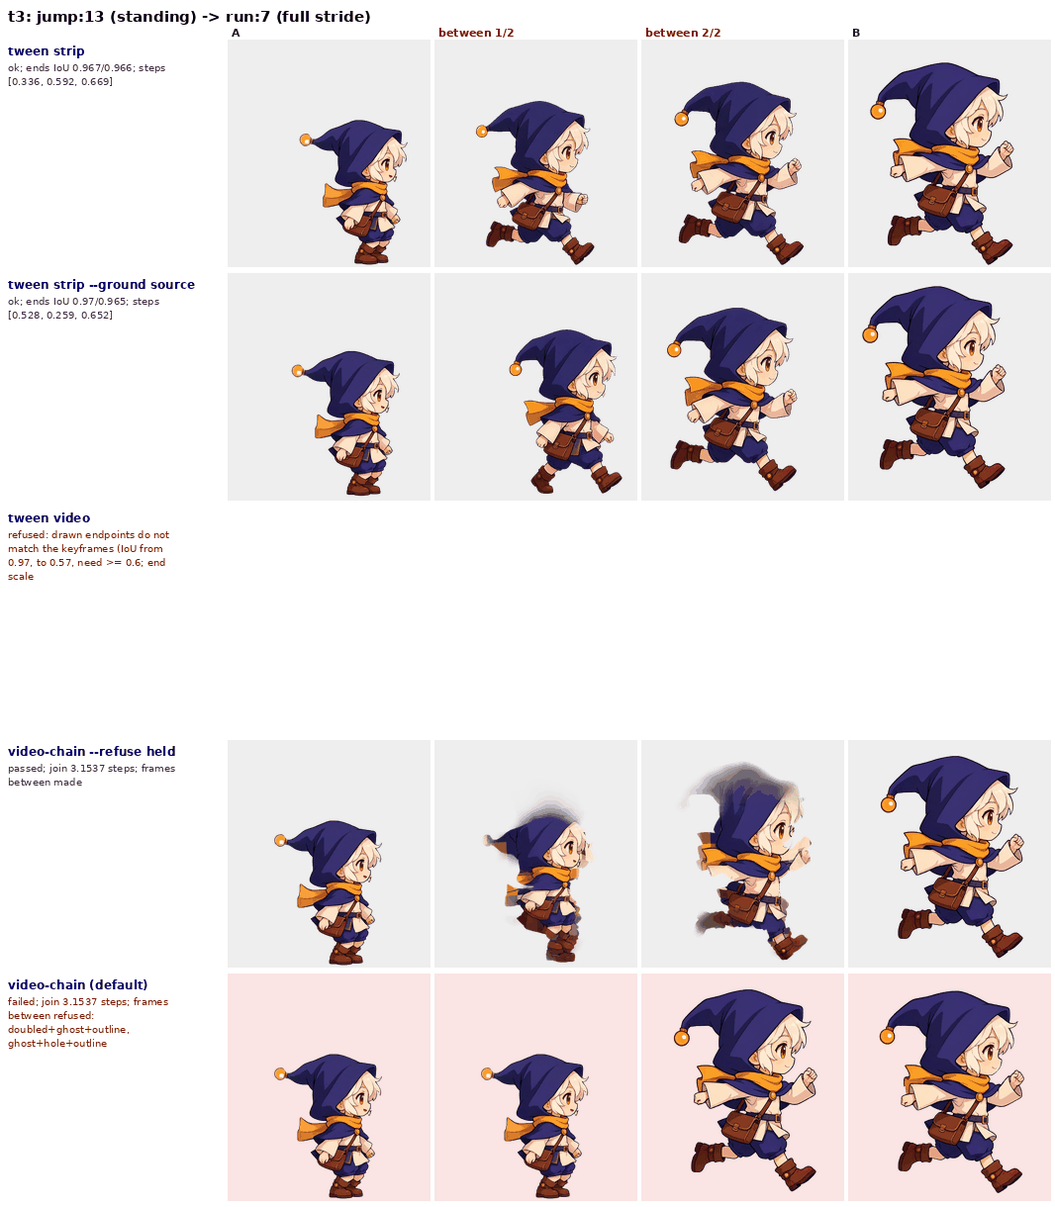
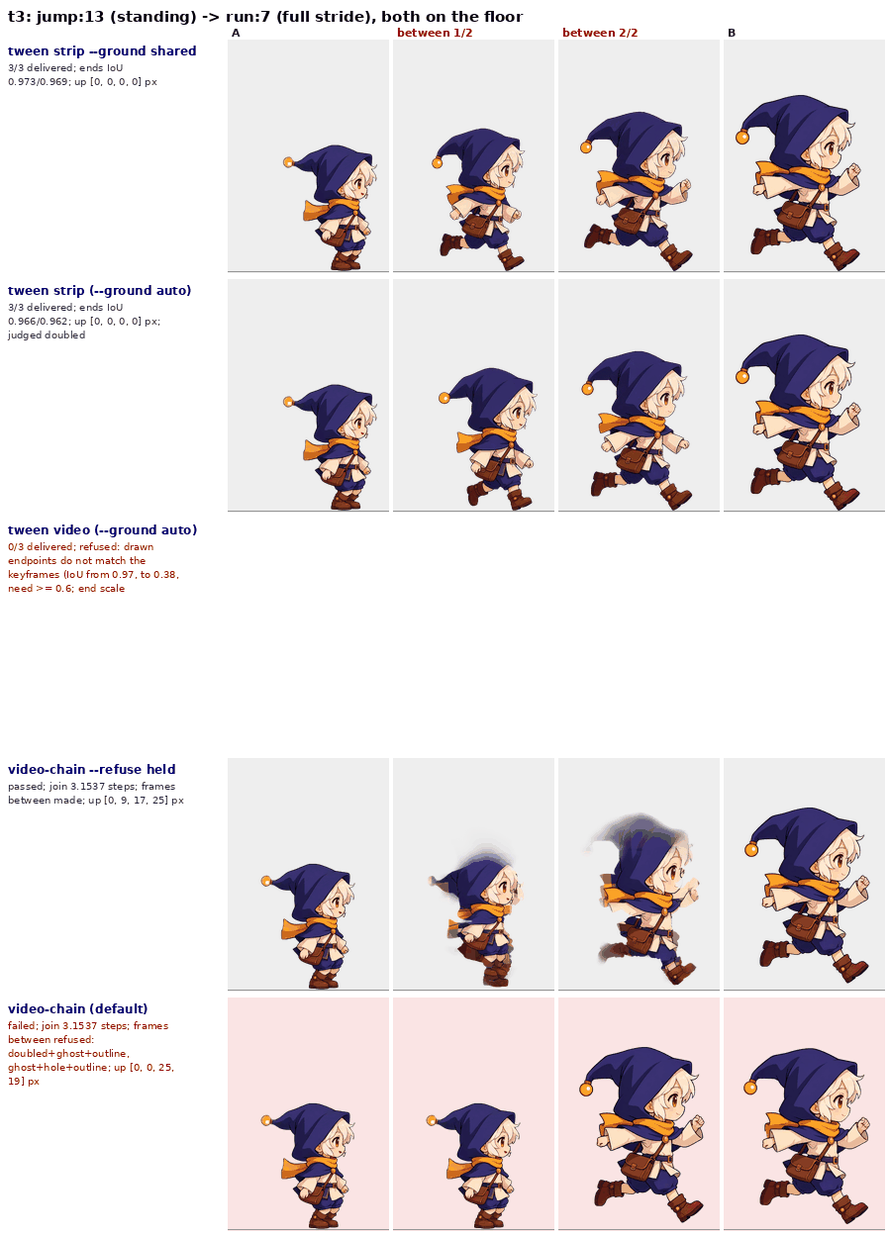
dev: tween_chain_demo on four joins (a landing beside the clip's own frames), three tries a tween row, heights off the floor, --resume; the GIFs and sheets again

diff --git a/scripts/dev/tween_chain_demo.py b/scripts/dev/tween_chain_demo.py
@@ -1,35 +1,40 @@
 # SPDX-License-Identifier: Apache-2.0
-"""`tween` beside `video-chain` on three joins between two Pip clips (docs/tween.md "tween and video-chain").
+"""`tween` beside `video-chain` on four joins between frames of two Pip clips (docs/tween.md "tween and video-chain").
 
-The frames are the repository's own: `tests/fixtures/rife-cuts/pip-jump` (29 keyed frames) and `pip-run` (26), put on
-one canvas (bottom-aligned, centred, the larger of the two sizes and a margin), as `video-chain` takes pieces. Each
-join is a last frame of one clip into a first frame of the other, at three pose distances:
+The frames are the repository's own: `tests/fixtures/rife-cuts/pip-jump` (29 keyed frames: rising 0-4 to an apex 208 px
+off the floor, falling 5-9, landed 10-25, taking off 26-28) and `pip-run` (26), put on one canvas (bottom-aligned,
+centred, the larger of the two sizes and a margin), as `video-chain` takes pieces. Each join is a frame of one clip
+into a frame of the other (or of the same clip, `t4`), at three pose distances and two kinds of height:
 
-- `t1` jump:28 -> run:0, a take-off 130 px off the floor into a stride (the nearest, 2.2 steps on `video-chain`'s
-  join reading);
-- `t3` jump:13 -> run:7, standing into a full stride (3.2 steps);
-- `t2` run:25 -> jump:0, a stride into a fall 164 px off the floor (the farthest, 4.6 steps).
+- `t1` jump:28 -> run:0, a take-off 130 px off the floor into a stride on it (2.2 steps on `video-chain`'s join reading);
+- `t2` run:25 -> jump:0, a stride on the floor into a rise 164 px off it (4.6 steps);
+- `t3` jump:13 -> run:7, standing into a full stride, both on the floor (3.2 steps): the control, no height to keep;
+- `t4` jump:6 -> jump:12, falling 182 px off the floor into the landed crouch. The clip's own frames 8 and 10 are a
+  third and two thirds of the way, so they are the frames to compare against (the `truth` row and `truth` numbers).
 
 For each, two frames between, five ways, every one through the CLI in a subprocess as a user runs it:
 
 | row | command |
 |---|---|
-| `strip` | `tween --method strip` (`--ground shared`, the default) |
-| `strip-source` | `tween --method strip --ground source` |
-| `video` | `tween --method video` (every fault of the judge refuses, the default) |
+| `strip-shared` | `tween --method strip --ground shared` (every foot on one ground row) |
+| `strip` | `tween --method strip` (`--ground auto`, the default: the height put back where one end is off the floor) |
+| `video` | `tween --method video` (`--ground auto`; every fault of the judge refuses, the default) |
 | `chain-held` | `video-chain --piece A=..:F-3:F --piece B=..:T:T+3 --bridge 2 --refuse held` |
 | `chain` | the same with every fault refusing (the default) |
 
-The tween rows call the provider (`--provider`, grok by default: one image or one clip each, billed per call where
-the login does not cover it); `--no-provider` runs the chain rows only, and `--render-only` draws the pages again from
-an earlier `--out-dir`. RIFE must be installed for the chain rows (`sprite-gen rife install`).
+The tween rows call the provider (`--provider`, grok by default: one image or one clip a try, billed per call where the
+login does not cover it) `--tries` times each (default 3), since the provider draws anew on every call: the summary
+counts the tries delivered and the pages show the first delivered (or the first refused). The chain rows run once
+(RIFE gives the same frames every run). `--no-provider` runs the chain rows only, and `--render-only` draws the pages
+again from an earlier `--out-dir`. RIFE must be installed for the chain rows (`sprite-gen rife install`).
 
-    .venv/bin/python scripts/dev/tween_chain_demo.py --out-dir <a new directory> [--jobs 3]
+    .venv/bin/python scripts/dev/tween_chain_demo.py --out-dir <a new directory> [--tries 3] [--jobs 5]
 
-Writes `<out-dir>/runs/<join>/<row>/` (each verb's own folder and report), `<out-dir>/summary.json` (each row's exit
-code, seconds and the numbers its report gives), and `<out-dir>/showcase/`: `tween-vs-chain-<join>.gif` (four rows
-playing A, the two frames between, B) and `tween-vs-chain-<join>.png` (all five rows' frames on one sheet), each under
-1 MB. The provider draws anew on every run, so the tween rows' numbers are one run's, not a fixed result.
+Writes `<out-dir>/runs/<join>/<row>/[try-<k>/]` (each verb's own folder and report), `<out-dir>/summary.json` (each
+try's exit code, seconds and the numbers its report gives, each row's frames' height off the floor, `rise_px`, and on
+`t4` each frame's silhouette IoU with the clip's own frame and its height error), and `<out-dir>/showcase/`:
+`tween-vs-chain-<join>.gif` (four rows playing A, the two frames between, B, `t4` with the clip's own frames beside
+them; a grey line on the lower end's floor) and `tween-vs-chain-<join>.png` (every row on one sheet), each under 1 MB.
 """
 from __future__ import annotations
 
@@ -47,13 +52,17 @@ ROOT = Path(__file__).resolve().parents[2]
 FIXTURES = ROOT / "tests" / "fixtures" / "rife-cuts"
 CLIPS = ("pip-jump", "pip-run")
 JOINS = {  # name: (from clip, from frame, to clip, to frame, what it is)
-    "t1": ("pip-jump", 28, "pip-run", 0, "jump:28 (take-off, 130 px up) -> run:0"),
-    "t3": ("pip-jump", 13, "pip-run", 7, "jump:13 (standing) -> run:7 (full stride)"),
-    "t2": ("pip-run", 25, "pip-jump", 0, "run:25 (stride) -> jump:0 (falling, 164 px up)"),
+    "t1": ("pip-jump", 28, "pip-run", 0, "jump:28 (take-off, 130 px up) -> run:0 (on the floor)"),
+    "t2": ("pip-run", 25, "pip-jump", 0, "run:25 (on the floor) -> jump:0 (rising, 164 px up)"),
+    "t3": ("pip-jump", 13, "pip-run", 7, "jump:13 (standing) -> run:7 (full stride), both on the floor"),
+    "t4": ("pip-jump", 6, "pip-jump", 12, "jump:6 (falling, 182 px up) -> jump:12 (landed); the clip's 8 and 10 between"),
 }
-ROWS = ("strip", "strip-source", "video", "chain-held", "chain")
-TITLES = {"strip": "tween strip", "strip-source": "tween strip --ground source", "video": "tween video",
-          "chain-held": "video-chain --refuse held", "chain": "video-chain (default)"}
+TRUTH = {"t4": ("pip-jump", (6, 8, 10, 12))}  # the clip's own frames at A, 1/3, 2/3, B
+ROWS = ("strip-shared", "strip", "video", "chain-held", "chain")
+TWEEN_ROWS = ("strip-shared", "strip", "video")
+TITLES = {"strip-shared": "tween strip --ground shared", "strip": "tween strip (--ground auto)",
+          "video": "tween video (--ground auto)", "chain-held": "video-chain --refuse held",
+          "chain": "video-chain (default)", "truth": "the clip's own frames"}
 DESCRIPTION = ("chibi wizard kid Pip: big indigo pointed hood with a yellow bell tip, orange scarf, cream tunic, "
                "brown satchel and boots, side view facing right")
 MARGIN = (12, 13)  # px added to the larger clip's width and height: the canvas of the comparison
@@ -88,11 +97,25 @@ def command(row: str, join: str, states: dict[str, Path], run: Path, provider: s
             "--to-file", str(states[b] / f"frame-{fb + 1:04d}.png"), "--n", str(n), "--provider", provider,
             "--description", DESCRIPTION, "--out-dir", str(run), "--fps", str(FPS), "--include-ends", "--force",
             "--method", "video" if row == "video" else "strip"]
-    return args + (["--ground", "source"] if row == "strip-source" else [])
+    return args + (["--ground", "shared"] if row == "strip-shared" else [])
 
 
-def execute(row: str, join: str, states: dict[str, Path], runs: Path, provider: str, n: int) -> dict:
-    run = runs / join / row
+def run_dirs(row: str, join: str, runs: Path, tries: int) -> list[Path]:
+    """Where a row's runs go: one folder for a chain row, `try-<k>` for each try of a tween row."""
+    base = runs / join / row
+    return [base] if row.startswith("chain") else [base / f"try-{k}" for k in range(1, tries + 1)]
+
+
+def stands(row: str, run: Path) -> bool:
+    """An earlier run that made something: a report whose status is not error."""
+    report = run / ("chain.report.json" if row.startswith("chain") else "tween.json")
+    try:
+        return json.loads(report.read_text(encoding="utf-8")).get("status") != "error"
+    except (OSError, ValueError):
+        return False
+
+
+def execute(row: str, join: str, run: Path, states: dict[str, Path], provider: str, n: int) -> dict:
     run.mkdir(parents=True, exist_ok=True)
     began = time.monotonic()
     proc = subprocess.run([sys.executable, "-m", "sprite_gen.cli", *command(row, join, states, run, provider, n)],
@@ -101,8 +124,8 @@ def execute(row: str, join: str, states: dict[str, Path], runs: Path, provider: 
     return {"exit": proc.returncode, "seconds": round(time.monotonic() - began, 1)}
 
 
-def read_row(row: str, run: Path) -> dict:
-    """The numbers a row's report gives, for the summary and the pages."""
+def read_run(row: str, run: Path) -> dict:
+    """The numbers a run's report gives, for the summary and the pages."""
     if row.startswith("chain"):
         rep = json.loads((run / "chain.report.json").read_text(encoding="utf-8"))
         bridges = rep.get("chain", {}).get("bridges", [])
@@ -116,15 +139,19 @@ def read_row(row: str, run: Path) -> dict:
     return {"status": rep["status"], "endpoint_iou": [em.get("iou_from"), em.get("iou_to")],
             "scale_agree": em.get("scale_agree"), "frame_scale": rep.get("frame_scale", {}).get("drawn_vs_endpoints"),
             "step_iou": rep.get("step_iou"), "drawn_step_iou": rep.get("drawn_step_iou"),
-            "lift_px": rep.get("lift_px"), "refuse": rep.get("refuse"),
+            "ground": rep.get("ground"), "lift_px": rep.get("lift_px"), "refuse": rep.get("refuse"),
             "judge_faults": [r["faults"] for r in rep.get("judge", [])],
             "kept_faults": [r.get("kept_faults", []) for r in rep.get("judge", [])],
             "shown_again": (rep.get("read") or {}).get("unlisted"), "warnings": len(rep.get("warnings", [])),
             "error": rep.get("error")}
 
 
+def delivered(row: str, numbers: dict) -> bool:
+    return numbers.get("status") in ("ok", "passed")
+
+
 def frames_of(row: str, run: Path) -> tuple[list[Image.Image] | None, bool]:
-    """A, the two frames between, B as the row delivered them, or as it left them refused; None where none were made."""
+    """A, the two frames between, B as the run delivered them, or as it left them refused; None where none were made."""
     if row.startswith("chain"):
         keyed = run / "keyed"
         folder, refused = (keyed, False) if keyed.is_dir() else (run / "keyed.refused", True)
@@ -137,6 +164,55 @@ def frames_of(row: str, run: Path) -> tuple[list[Image.Image] | None, bool]:
     return [Image.open(f).convert("RGBA") for f in files], refused
 
 
+def truth_frames(join: str, states: dict[str, Path]) -> list[Image.Image] | None:
+    if join not in TRUTH:
+        return None
+    clip, picks = TRUTH[join]
+    return [Image.open(states[clip] / f"frame-{k + 1:04d}.png").convert("RGBA") for k in picks]
+
+
+def rise_px(frames: list[Image.Image]) -> list[int]:
+    """Each frame's lowest opaque row above the lower end's, in px of its own canvas (one canvas a row)."""
+    bottoms = [f.getchannel("A").getbbox()[3] for f in frames]
+    floor = max(bottoms[0], bottoms[-1])
+    return [floor - b for b in bottoms]
+
+
+def against_truth(frames: list[Image.Image], truth: list[Image.Image]) -> dict:
+    """The frames between beside the clip's own: silhouette IoU at the clip frame's height, foot on foot, and the
+    height error. A frame drawn at another scale than the clip's is compared at the clip's scale."""
+    from sprite_gen.effects.tween import _scaled, _tight, silhouette_iou
+    iou = []
+    for got, want in zip(frames[1:-1], truth[1:-1]):
+        g, w = _tight(got), _tight(want)
+        iou.append(round(silhouette_iou(_scaled(g, w.height), w, "foot"), 3))
+    got, want = rise_px(frames), rise_px(truth)
+    return {"iou": iou, "rise_px": want, "rise_error_px": [g - w for g, w in zip(got[1:-1], want[1:-1])]}
+
+
+def summarise(join: str, runs: Path, states: dict[str, Path], tries: int, timing: dict) -> dict:
+    out: dict = {}
+    truth = truth_frames(join, states)
+    if truth:
+        out["truth"] = {"rise_px": rise_px(truth)}
+    for row in ROWS:
+        dirs = [d for d in run_dirs(row, join, runs, tries) if (d / "log.txt").is_file()]
+        if not dirs:
+            continue
+        rows = []
+        for d in dirs:
+            numbers = {**timing.get(join, {}).get(str(d.relative_to(runs)), {}), **read_run(row, d)}
+            frames, _ = frames_of(row, d)
+            if frames:
+                numbers["rise_px"] = rise_px(frames)
+                if truth:
+                    numbers["truth"] = against_truth(frames, truth)
+            rows.append(numbers)
+        ok = [k for k, r in enumerate(rows) if delivered(row, r)]
+        out[row] = {"delivered": len(ok), "of": len(rows), "shown": ok[0] if ok else 0, "tries": rows}
+    return out
+
+
 def _font(size: int, bold: bool = False) -> ImageFont.ImageFont:
     name = "DejaVuSans-Bold.ttf" if bold else "DejaVuSans.ttf"
     try:
@@ -145,65 +221,86 @@ def _font(size: int, bold: bool = False) -> ImageFont.ImageFont:
         return ImageFont.load_default()
 
 
-def note(row: str, numbers: dict) -> str:
+def note(row: str, entry: dict) -> str:
+    if row == "truth":
+        return f"heights off the floor {entry['rise_px']} px"
+    numbers = entry["tries"][entry["shown"]]
+    count = f"{entry['delivered']}/{entry['of']} delivered; " if entry["of"] > 1 else ""
+    rise = f"; up {numbers['rise_px']} px" if numbers.get("rise_px") else ""
     if row.startswith("chain"):
         made = "made" if all(numbers["bridge_made"]) else "refused: " + ", ".join(
             "+".join(f) for f in numbers["bridge_faults"] if f)
-        return f"{numbers['status']}; join {numbers['join_steps']} steps; frames between {made}"
-    if numbers["status"] != "ok":
-        return "refused: " + (numbers["error"] or "").split("refused — ")[-1][:90]
+        return f"{numbers['status']}; join {numbers['join_steps']} steps; frames between {made}{rise}"
+    if not delivered(row, numbers):
+        return count + "refused: " + (numbers["error"] or "").split("refused — ")[-1][:90]
     kept = sorted({f for k in numbers["kept_faults"] for f in k})
-    return (f"ok; ends IoU {numbers['endpoint_iou'][0]}/{numbers['endpoint_iou'][1]}; steps {numbers['step_iou']}"
+    truth = f"; IoU with the clip's {numbers['truth']['iou']}" if numbers.get("truth") else ""
+    return (count + f"ends IoU {numbers['endpoint_iou'][0]}/{numbers['endpoint_iou'][1]}{rise}{truth}"
             + (f"; judged {'+'.join(kept)}" if kept else ""))
 
 
-def _panel(im: Image.Image, zoom: float, size: tuple[int, int], refused: bool) -> Image.Image:
+def _panel(im: Image.Image, zoom: float, size: tuple[int, int], refused: bool, floor: int | None) -> Image.Image:
+    """The frame at `zoom`, its canvas bottom on the panel's, a grey line on the row's floor (`floor`: canvas row)."""
     small = im.resize((max(1, round(im.width * zoom)), max(1, round(im.height * zoom))), Image.Resampling.LANCZOS)
     panel = Image.new("RGBA", size, (250, 228, 228, 255) if refused else (238, 238, 238, 255))
-    panel.alpha_composite(small, ((size[0] - small.width) // 2, max(0, size[1] - small.height)))
+    top = size[1] - small.height
+    if floor is not None:
+        y = top + round(floor * zoom)
+        ImageDraw.Draw(panel).line([(0, y), (size[0], y)], fill=(150, 150, 150, 255), width=1)
+    panel.alpha_composite(small, ((size[0] - small.width) // 2, max(0, top)))
     return panel
 
 
-def render(join: str, runs: Path, summary: dict, show: Path, height: int) -> list[Path]:
-    """The GIF (four rows playing) and the sheet (five rows, the four frames each) of one join."""
-    rows = {row: (*frames_of(row, runs / join / row), summary[join][row]) for row in ROWS}
-    zoom = 230 / height
-    pw, ph = round(700 * zoom), 230  # wider than the canvas: a video canvas and a hood tip reach past it
+def render(join: str, runs: Path, summary: dict, states: dict[str, Path], tries: int, show: Path,
+           height: int) -> list[Path]:
+    """The GIF (four rows playing, and the clip's own frames where there are) and the sheet (every row's four frames)."""
+    rows = {}
+    for row in ROWS:
+        entry = summary[join][row]
+        frames, refused = frames_of(row, run_dirs(row, join, runs, tries)[entry["shown"]])
+        rows[row] = (frames, refused, entry)
+    truth = truth_frames(join, states)
+    order = list(ROWS) + (["truth"] if truth else [])
+    if truth:
+        rows["truth"] = (truth, False, summary[join]["truth"])
+    zoom = 200 / height
+    pw, ph = round(640 * zoom), 236  # wider and taller than the canvas: a video canvas, a hood tip and a height reach past it
     caption = ["A", "between 1/2", "between 2/2", "B"]
     head = f"{join}: {JOINS[join][4]}"
-    # the sheet
+
+    def floor(frames):
+        return max(f.getchannel("A").getbbox()[3] for f in (frames[0], frames[-1])) if frames else None
     lab = 230
-    sheet = Image.new("RGBA", (lab + 4 * (pw + 4), 40 + len(ROWS) * (ph + 6)), "white")
+    sheet = Image.new("RGBA", (lab + 4 * (pw + 4), 40 + len(order) * (ph + 6)), "white")
     d = ImageDraw.Draw(sheet)
     d.text((8, 8), head, font=_font(15, True), fill="black")
     for k, c in enumerate(caption):
         d.text((lab + k * (pw + 4) + 4, 26), c, font=_font(11, True), fill=(150, 0, 0) if k in (1, 2) else (0, 100, 0))
-    for i, row in enumerate(ROWS):
-        frames, refused, numbers = rows[row]
+    for i, row in enumerate(order):
+        frames, refused, entry = rows[row]
         y = 40 + i * (ph + 6)
         d.text((8, y + 4), TITLES[row], font=_font(12, True), fill=(0, 0, 120))
-        for j, line in enumerate(_wrap(note(row, numbers), 34)[:9]):
+        for j, line in enumerate(_wrap(note(row, entry), 34)[:11]):
             d.text((8, y + 22 + j * 14), line, font=_font(10), fill=(150, 0, 0) if refused else (50, 50, 50))
         for k, im in enumerate(frames or []):
-            sheet.alpha_composite(_panel(im, zoom, (pw, ph), refused), (lab + k * (pw + 4), y))
+            sheet.alpha_composite(_panel(im, zoom, (pw, ph), refused, floor(frames)), (lab + k * (pw + 4), y))
     out_png = show / f"tween-vs-chain-{join}.png"
     sheet.convert("RGB").quantize(colors=128).save(out_png, optimize=True)
-    # the GIF: the four rows a reader compares, A -> between -> B
-    shown = [r for r in ROWS if r != "chain"]
+    shown = [r for r in order if r != "chain"]
     pages = []
     for k in range(4):
-        page = Image.new("RGBA", (len(shown) * (pw + 6) + 6, ph + 76), "white")
+        page = Image.new("RGBA", (len(shown) * (pw + 6) + 6, ph + 90), "white")
         d = ImageDraw.Draw(page)
         d.text((6, 4), head, font=_font(12, True), fill="black")
         for i, row in enumerate(shown):
-            frames, refused, numbers = rows[row]
+            frames, refused, entry = rows[row]
             x = 6 + i * (pw + 6)
             d.text((x, 22), TITLES[row], font=_font(10, True), fill=(0, 0, 120))
             if frames:
-                page.alpha_composite(_panel(frames[k], zoom, (pw, ph), refused), (x, 38))
+                page.alpha_composite(_panel(frames[k], zoom, (pw, ph), refused, floor(frames)), (x, 38))
             d.text((x + 4, 40), caption[k] + (" (refused)" if refused else ""), font=_font(10, True),
                    fill=(150, 0, 0) if k in (1, 2) or refused else (0, 100, 0))
-            for j, line in enumerate(_wrap(note(row, numbers), 30)[:2]):
+            for j, line in enumerate(_wrap(note(row, entry), 30)[:4]):
                 d.text((x, 38 + ph + 2 + j * 12), line, font=_font(9), fill=(60, 60, 60))
         pages.append(page.convert("RGB").quantize(colors=96))
     out_gif = show / f"tween-vs-chain-{join}.gif"
@@ -228,34 +325,40 @@ def main(argv: list[str] | None = None) -> int:
     parser.add_argument("--out-dir", type=Path, required=True)
     parser.add_argument("--provider", default="grok", help="the tween rows' provider (default grok)")
     parser.add_argument("--n", type=int, default=2, help="frames between (default 2)")
-    parser.add_argument("--only", default=",".join(JOINS), help="joins to run, comma separated (default t1,t3,t2)")
-    parser.add_argument("--jobs", type=int, default=3, help="rows run at once (default 3)")
+    parser.add_argument("--tries", type=int, default=3, help="tries of each tween row (default 3)")
+    parser.add_argument("--only", default=",".join(JOINS), help=f"joins to run, comma separated (default {','.join(JOINS)})")
+    parser.add_argument("--jobs", type=int, default=5, help="runs at once (default 5)")
     parser.add_argument("--no-provider", action="store_true", help="run the chain rows only")
     parser.add_argument("--render-only", action="store_true", help="draw the pages again from an earlier --out-dir")
+    parser.add_argument("--resume", action="store_true",
+                        help="in an earlier --out-dir, run again only what made nothing (no report, or status error: "
+                             "an expired login, a timeout); a delivered or refused try stands")
     args = parser.parse_args(argv)
     out = args.out_dir.resolve()
     joins = [j.strip() for j in args.only.split(",") if j.strip()]
     if unknown := [j for j in joins if j not in JOINS]:
         parser.error(f"--only: no join {unknown}; joins are {', '.join(JOINS)}")
-    states = build_states(out) if not args.render_only else {c: out / "states" / c / "keyed" for c in CLIPS}
+    reuse = args.render_only or args.resume
+    states = build_states(out) if not reuse else {c: out / "states" / c / "keyed" for c in CLIPS}
     runs = out / "runs"
     timing_path = out / "timing.json"
     timing = json.loads(timing_path.read_text()) if timing_path.is_file() else {}
     if not args.render_only:
-        todo = [(row, j) for j in joins for row in ROWS if not (args.no_provider and not row.startswith("chain"))]
+        todo = [(row, j, d) for j in joins for row in ROWS if not (args.no_provider and row in TWEEN_ROWS)
+                for d in run_dirs(row, j, runs, args.tries) if not (args.resume and stands(row, d))]
         with ThreadPoolExecutor(max(1, args.jobs)) as pool:
-            for (row, j), result in zip(todo, pool.map(lambda t: execute(*t, states, runs, args.provider, args.n),
-                                                       todo)):
-                timing.setdefault(j, {})[row] = result
-                print(f"{j} {row}: exit {result['exit']} in {result['seconds']} s", file=sys.stderr)
+            for (row, j, d), result in zip(todo, pool.map(
+                    lambda t: execute(t[0], t[1], t[2], states, args.provider, args.n), todo)):
+                timing.setdefault(j, {})[str(d.relative_to(runs))] = result
+                print(f"{d.relative_to(runs)}: exit {result['exit']} in {result['seconds']} s", file=sys.stderr)
         timing_path.write_text(json.dumps(timing, indent=2) + "\n")
-    summary = {j: {row: {**timing.get(j, {}).get(row, {}), **read_row(row, runs / j / row)}
-                   for row in ROWS if (runs / j / row).is_dir()} for j in joins}
+    summary = {j: summarise(j, runs, states, args.tries, timing) for j in joins}
     show = out / "showcase"
     show.mkdir(exist_ok=True)
     height = Image.open(next(iter(states.values())) / "frame-0001.png").height
-    written = [p for j in joins if len(summary[j]) == len(ROWS) for p in render(j, runs, summary, show, height)]
-    (out / "summary.json").write_text(json.dumps({"provider": args.provider, "n": args.n, "joins": {
+    written = [p for j in joins if all(r in summary[j] for r in ROWS)
+               for p in render(j, runs, summary, states, args.tries, show, height)]
+    (out / "summary.json").write_text(json.dumps({"provider": args.provider, "n": args.n, "tries": args.tries, "joins": {
         j: {"what": JOINS[j][4], **summary[j]} for j in joins}}, indent=2) + "\n")
     big = [p.name for p in written if p.stat().st_size >= 1_000_000]
     print(json.dumps({"summary": str(out / "summary.json"), "showcase": [str(p) for p in written], "over_1mb": big}))

diff --git a/scripts/dev/README.md b/scripts/dev/README.md
@@ -9,6 +9,6 @@ measurement or a proof that fed a rule now living in the package or its docs:
 | `measure_align_sigma.py` | per-frame horizontal jitter σ of `fit.align_x` variants on a source run's raw strips |
 | `check_visible_magenta.py` | chroma-leak guard for screenshots (`sprite_gen.frames.check_visible_magenta`) |
 | `source_restoration_demo.py` | source restoration end to end on a drawn walker with two melted cells ([loop-comparison](../../docs/loop-comparison.md#restoring-the-active-cut-from-source)): `video-source-manifest`, then `video-loop-repair` and `video-loop-compare` twice (each `improved`) and a third request that changes nothing; exit 0 only when every check holds. Writes the release showcase GIFs and a `summary.json` with no path or time (`--out-dir <new dir>`) |
-| `tween_chain_demo.py` | `tween` beside `video-chain` on three joins between the repository's Pip clips ([tween](../../docs/tween.md#1-tween-and-video-chain)): two frames between, by `tween --method strip` (`--ground shared` and `source`), `tween --method video` and `video-chain --bridge 2` (`--refuse held` and the default), every one through the CLI; writes each run's folder, a `summary.json` of exit codes, seconds and report numbers, and the comparison GIFs and sheets (`--out-dir <new dir>`; the tween rows call the provider, `--no-provider` runs the chain rows only) |
+| `tween_chain_demo.py` | `tween` beside `video-chain` on four joins between frames of the repository's Pip clips, two with one end off the floor and a landing beside the clip's own frames ([tween](../../docs/tween.md#1-tween-and-video-chain)): two frames between, by `tween --method strip` (`--ground shared` and the default `auto`), `tween --method video` and `video-chain --bridge 2` (`--refuse held` and the default), every one through the CLI, each tween row `--tries` times (default 3); writes each run's folder, a `summary.json` of exit codes, seconds, report numbers, heights off the floor and, on the landing, each frame against the clip's, and the comparison GIFs and sheets (`--out-dir <new dir>`; the tween rows call the provider, `--no-provider` runs the chain rows only, `--resume` runs again only what made nothing) |
 
 Run them with the project interpreter (`.venv/bin/python scripts/dev/<name>.py`).
